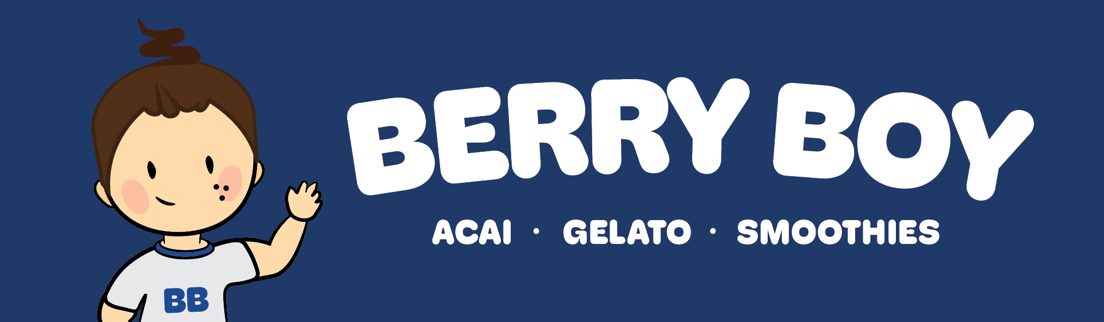
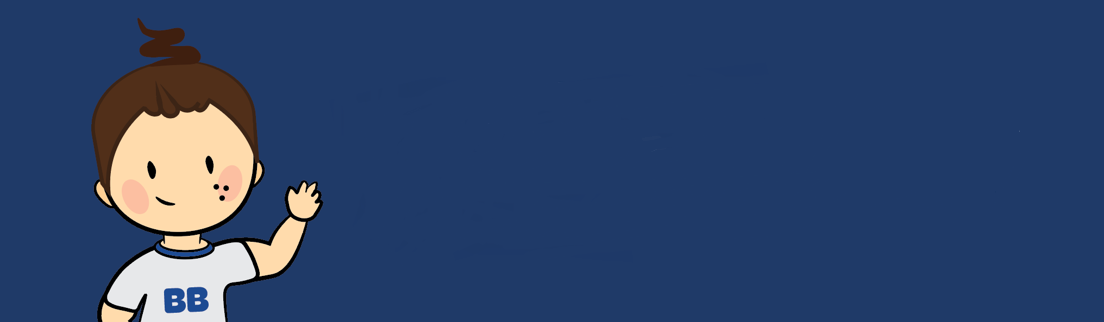
dsf

Changed region(s): [[0.308, 0.2484, 0.9547, 0.6211], [0.4928, 0.6832, 0.8623, 0.7764], [0.3696, 0.6832, 0.462, 0.7764]]

diff --git a/index.html b/index.html
@@ -27,11 +27,15 @@
             <i class="fa fa-bars" onclick="showMenu()"></i>
         </nav>
 
-    <!-- <div class="text-box">
-        <h1>Berry Boy</h1>
-        <p>Anabolic acai</p>
+    <div class="text-box">
+        <h1>BERRY BOY</h1>
+        <p>
+            <span class="dots-separator">ACAI</span>
+            <span class="dots-separator">GELATO</span>
+            <span class="dots-separator">SMOOTHIES</span>
+          </p>
         <a href="contact.html" class="hero-btn">Visit Us</a>
-    </div> -->
+    </div>
     </section>
     
     <!----- Our story ----->
@@ -41,7 +45,7 @@
             <img src="images/our-story.png" alt="Our Story Image" class="story-image">
             <div class="story-text">
                 <h1>Our Story</h1>
-                <p>Hey everyone, this is Kent and Andrew from Berry Boy . . . <br><br>
+                <p>Hey everyone ! This is Kent and Andrew from Berry Boy . . . <br><br>
                 We started Berry Boy in March of 2024 in hopes of changing Hurstville from the ends where no one stays out past
                 8pm into a place that where families, kids, adults, couples, really anyone, could hang out. One year later, we can
                 proudly say that with the help of our selfless team, we’ve built a community of all you acai addicts. We’re here to
@@ -50,7 +54,6 @@
                 </p>
             </div>
         </div>
-        <a href="contact.html" class="hero-btn">Visit Us</a>
     </section>
 
     <!----- Testimonials ----->

diff --git a/style.css b/style.css
@@ -34,6 +34,7 @@ nav img {
 }
 
 .nav-links ul li {
+    color: #e6e7e8;
     list-style: none;
     display: inline-block;
     padding: 8px 12px;
@@ -64,6 +65,19 @@ nav img {
 
 .nav-links ul li a:hover::after {
     width: 100%;
+}
+
+.dots-separator {
+    position: relative;
+    font-size: 16px; 
+    margin: 0 15px; 
+}
+
+.dots-separator:not(:last-child)::after {
+    content: "•"; 
+    position: absolute;
+    right: -20px; 
+    color: #e6e7e8; 
 }
 
 
@@ -116,6 +130,14 @@ nav .fa {
 }
 
 @media(max-width: 700px) {
+    .header {
+        min-height: 50vh;
+    }
+
+    .text-box {
+        margin-top: 40px;
+    }
+
     .text-box h1 {
         font-size: 40px;
     }

diff --git a/contact.html b/contact.html
@@ -95,7 +95,6 @@
                     <input type="text" name="name" placeholder="NAME" required>
                     <input type="email" name="email" placeholder="EMAIL" required>
                     <input type="number" name="number" placeholder="PHONE NUMBER" required>
-                    <input type="text" name="subject" placeholder="SUBJECT" required>
                     <textarea rows="8" name="message" placeholder="MESSAGE" required></textarea>
                     <button type="submit" class="send-btn">SEND</button>
                 </form>
